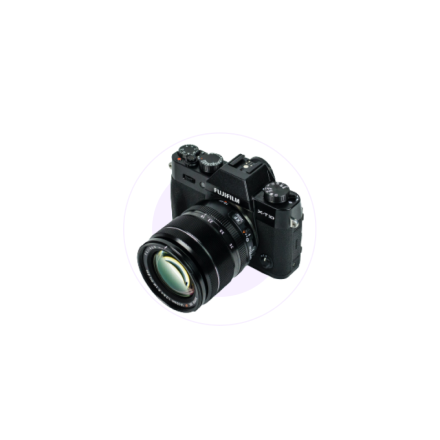
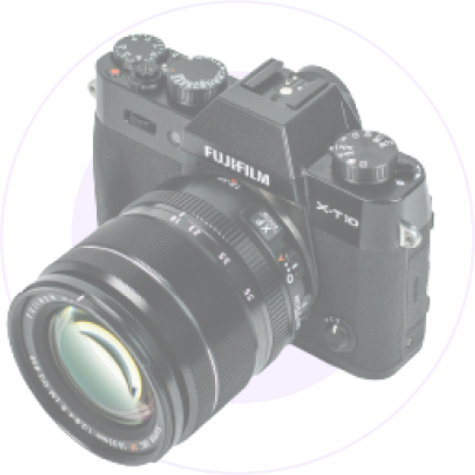
new added

diff --git a/index.html b/index.html
@@ -9,7 +9,7 @@
     <!-- google font link -->
     <link rel="preconnect" href="https://fonts.googleapis.com">
     <link rel="preconnect" href="https://fonts.gstatic.com" crossorigin>
-    <link href="https://fonts.googleapis.com/css2?family=Poppins&display=swap" rel="stylesheet">
+    <link href="https://fonts.googleapis.com/css2?family=Poppins:wght@500;600;700&display=swap" rel="stylesheet">
     <!-- google font link -->
     <!-- fontawesome link -->
     <script src="https://kit.fontawesome.com/64c37504ec.js" crossorigin="anonymous"></script>
@@ -30,18 +30,33 @@
                 <div class="menu_item">
                     <span><a href="#">Home</a></span>
                     <span><a href="#">products</a></span>
-                    <span><a href="#">SignUp</a></span>
-                    <span><a href="#">Log in</a></span>
+                    <span><a href="#">Signup</a></span>
+                    <span><a href="#">Login</a></span>
                     <div class="icon">
                         <i class="fas fa-search"></i>
                         <i class="fas fa-shopping-cart"></i>
                     </div>
                 </div>
-
-
             </nav>
         </header>
         <!-- header aria end -->
+        <!-- Banner aria start -->
+        <section class="container">
+            <div class="banner_Container">
+                <div class="banner_info">
+                    <h1 id="banner_title">Start your Journey as
+                        Influencer</h1>
+                    <p class="detail">The leading influencer marketing and branded content solution. We combine
+                        data-driven insights
+                        and creative strategy to produce meaningful relationships </p>
+                    <button type="submit">Freebook Now <i class="fas fa-arrow-right"></i></button>
+                </div>
+                <div class="banner_image">
+                    <img src="images/main-camera.png" alt="">
+                </div>
+            </div>
+        </section>
+        <!-- Banner aria end -->
     </main>
 
 

diff --git a/css/style.css b/css/style.css
@@ -3,13 +3,21 @@ body{
     padding: 0;
     font-family: 'Poppins', sans-serif;
 }
-/* header style */
+/* header & menu Item style */
+main{
+    display: flex;
+    align-items: center;
+    flex-direction: column;
+}
 header{
+    display: flex;
+    justify-content: center;
     width: 100%;
     height: 80px;
-    background: #f33e80;   
+    background: #f33e80;    
   }
 nav{
+    width: 90%;
     display: flex;
     justify-content: space-between;
     align-items: center;
@@ -27,28 +35,64 @@ nav h2{
     align-items: center;
     justify-content: space-between;
 }
+
 .menu_item span a{
     text-decoration: none;
     color: whitesmoke;
     font-size: 19px;
     font-weight: 500;
     letter-spacing: 1px;
-    
-    
+    padding: 5px;    
 }
-.menu_item span:hover a{
+.menu_item span a:hover{
     border-bottom: 2px solid rgb(255, 255, 255);
     }
-.fas{    
+.icon .fas{    
     color: whitesmoke;
     font-size: 20px;
     margin: 10px;
     cursor: pointer;
     transition: all .1s;
+    cursor: pointer;
     }
-.fas:hover{    
-    transform: scale(1.1);
-    color: lightblue;
-    }
-
+    /* Banner aria style here */
+.container{
+    width: 90%;
+    padding:0px 20px;    
+}
+.banner_Container{
+width: 100%;
+display: flex;
+justify-content: space-between;
+align-items: center;
+margin-top: 0px;
+}
+#banner_title{
+    font-size: 52px;
+    font-weight: 700;
+    line-height: 70px;
+    margin: 0px;
+}
+.banner_Container .detail{
+    font-size: 16px;
+    font-weight: 600;
+}
+button{
+    width: 196px;
+    height: 44px;
+    border-radius: 41px;
+    border: none;
+    background: #E02C6D;
+    font-size: 16px;
+    font-weight: bold;
+    color: whitesmoke;
+    padding:10px 24px;
+    cursor: pointer;
+}
+.banner_image{
+    width: 70%;
+}
+.banner_image img{
+    width: 100%;     
+}
 
